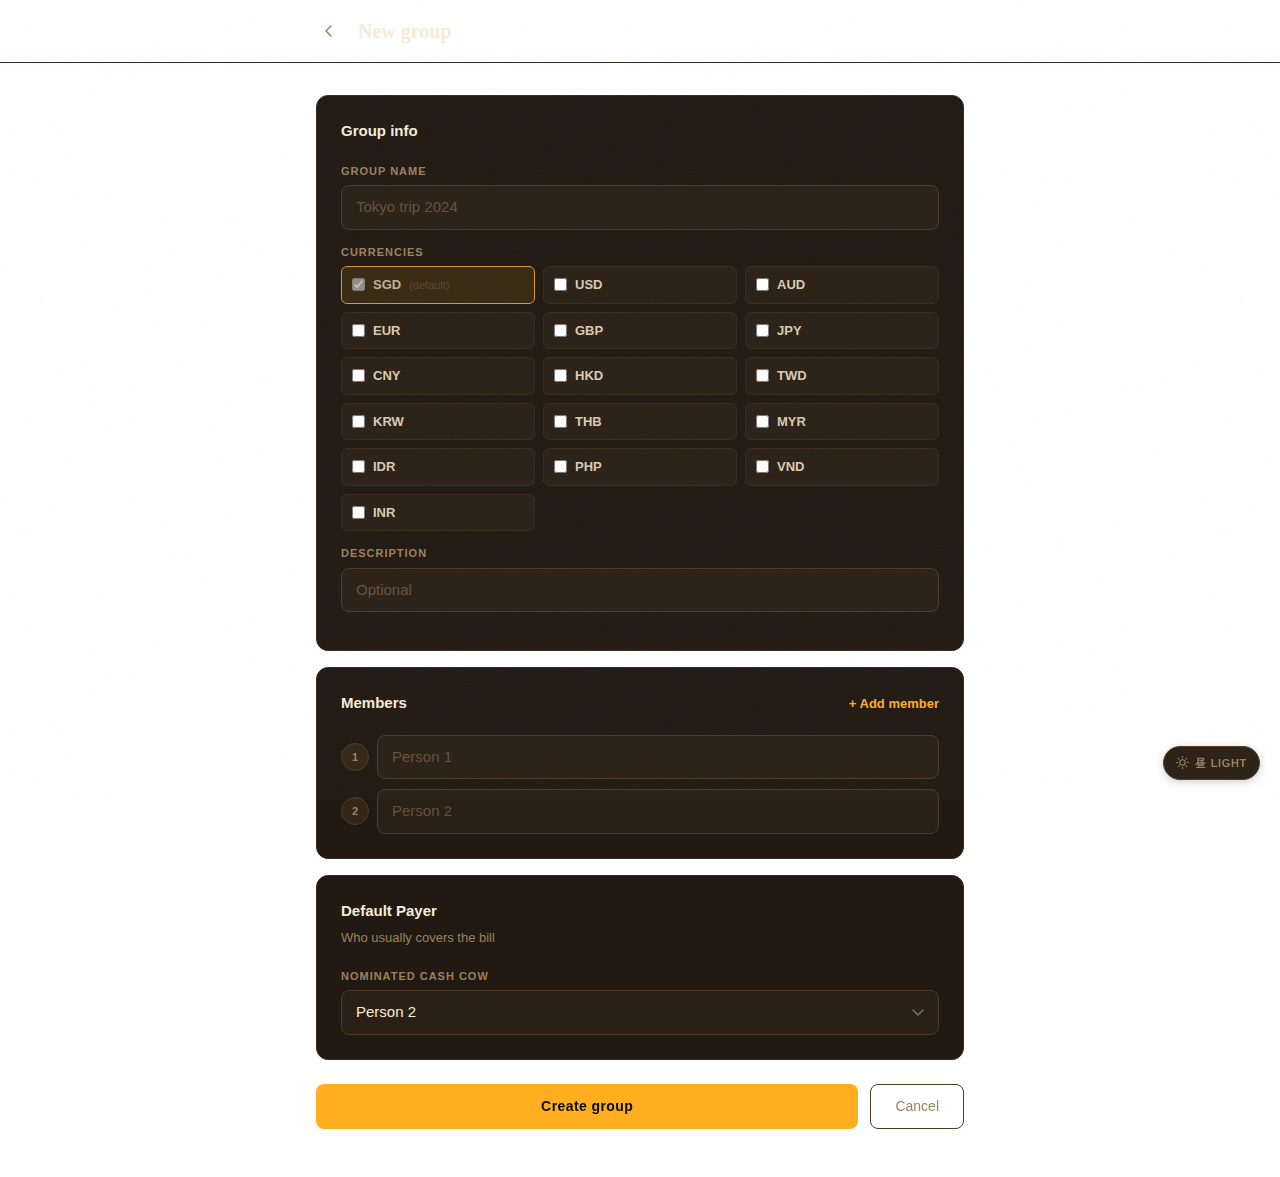
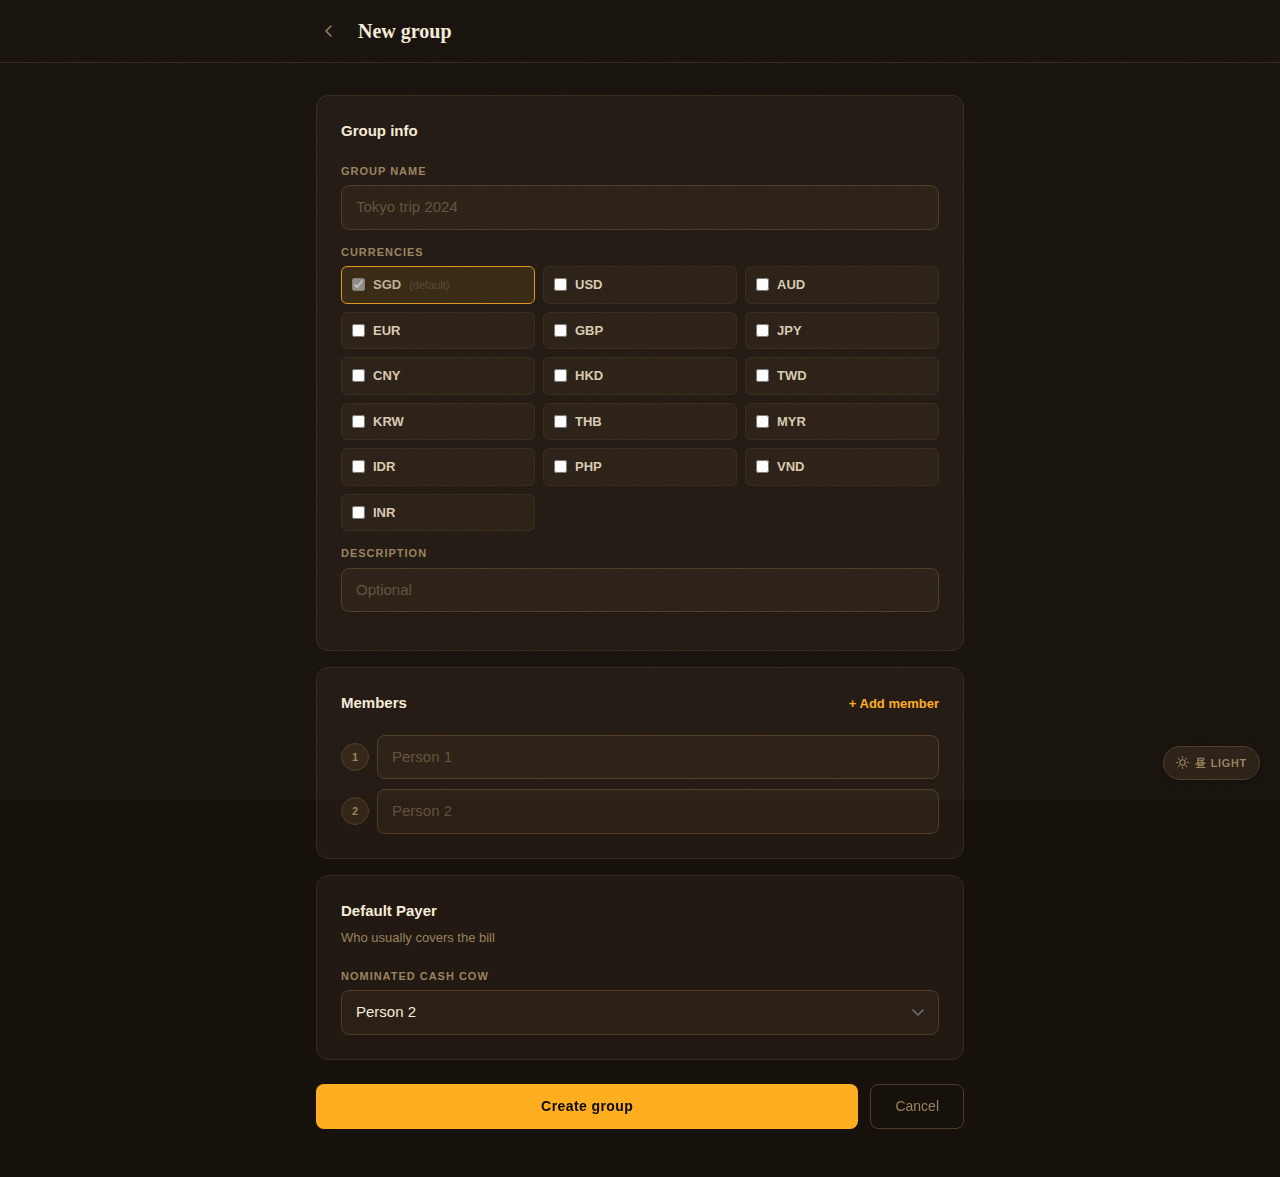
Fix white background on create-group page
The /groups/create route wrapped <CreateGroup /> in a hardcoded
bg-white div, which painted over the app's dark theme regardless of
which theme was active. CreateGroup already renders its own
.page-shell (which inherits the themed body background), so the
wrapper was both redundant and the source of the bug — just render
the component directly.

diff --git a/src/app/groups/create/page.tsx b/src/app/groups/create/page.tsx
@@ -1,9 +1,5 @@
 import CreateGroup from '~/app/_components/create-group'
 
 export default function Home() {
-    return (
-        <div className="bg-white">
-            <CreateGroup />
-        </div>
-    )
+    return <CreateGroup />
 }
